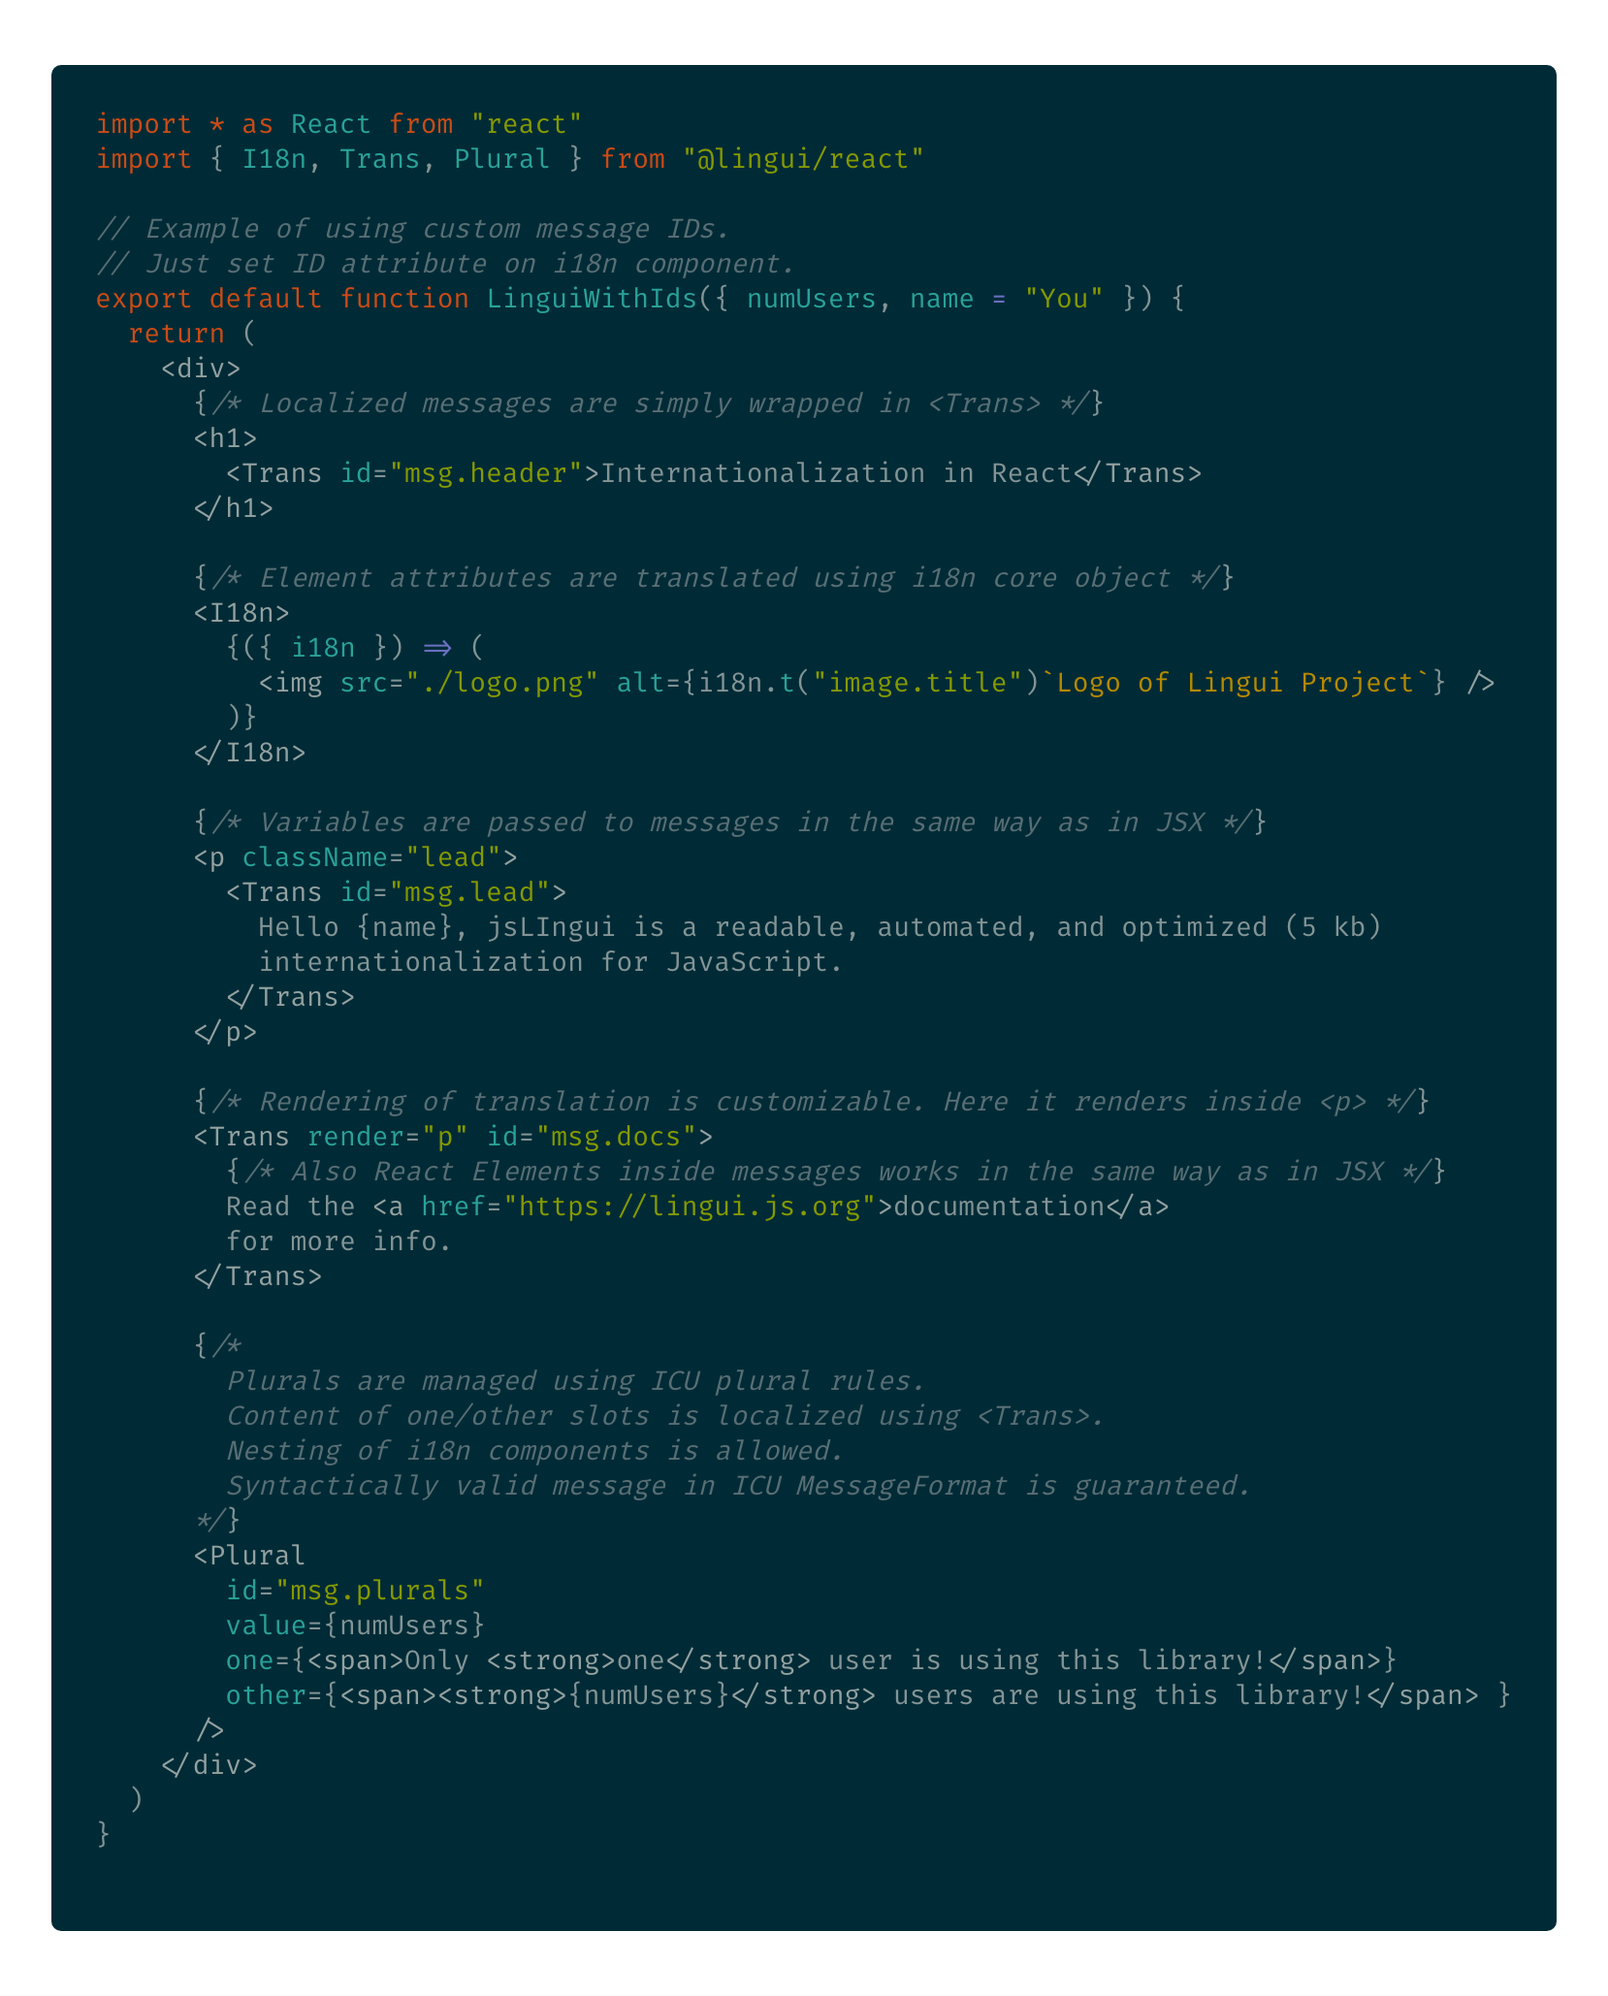
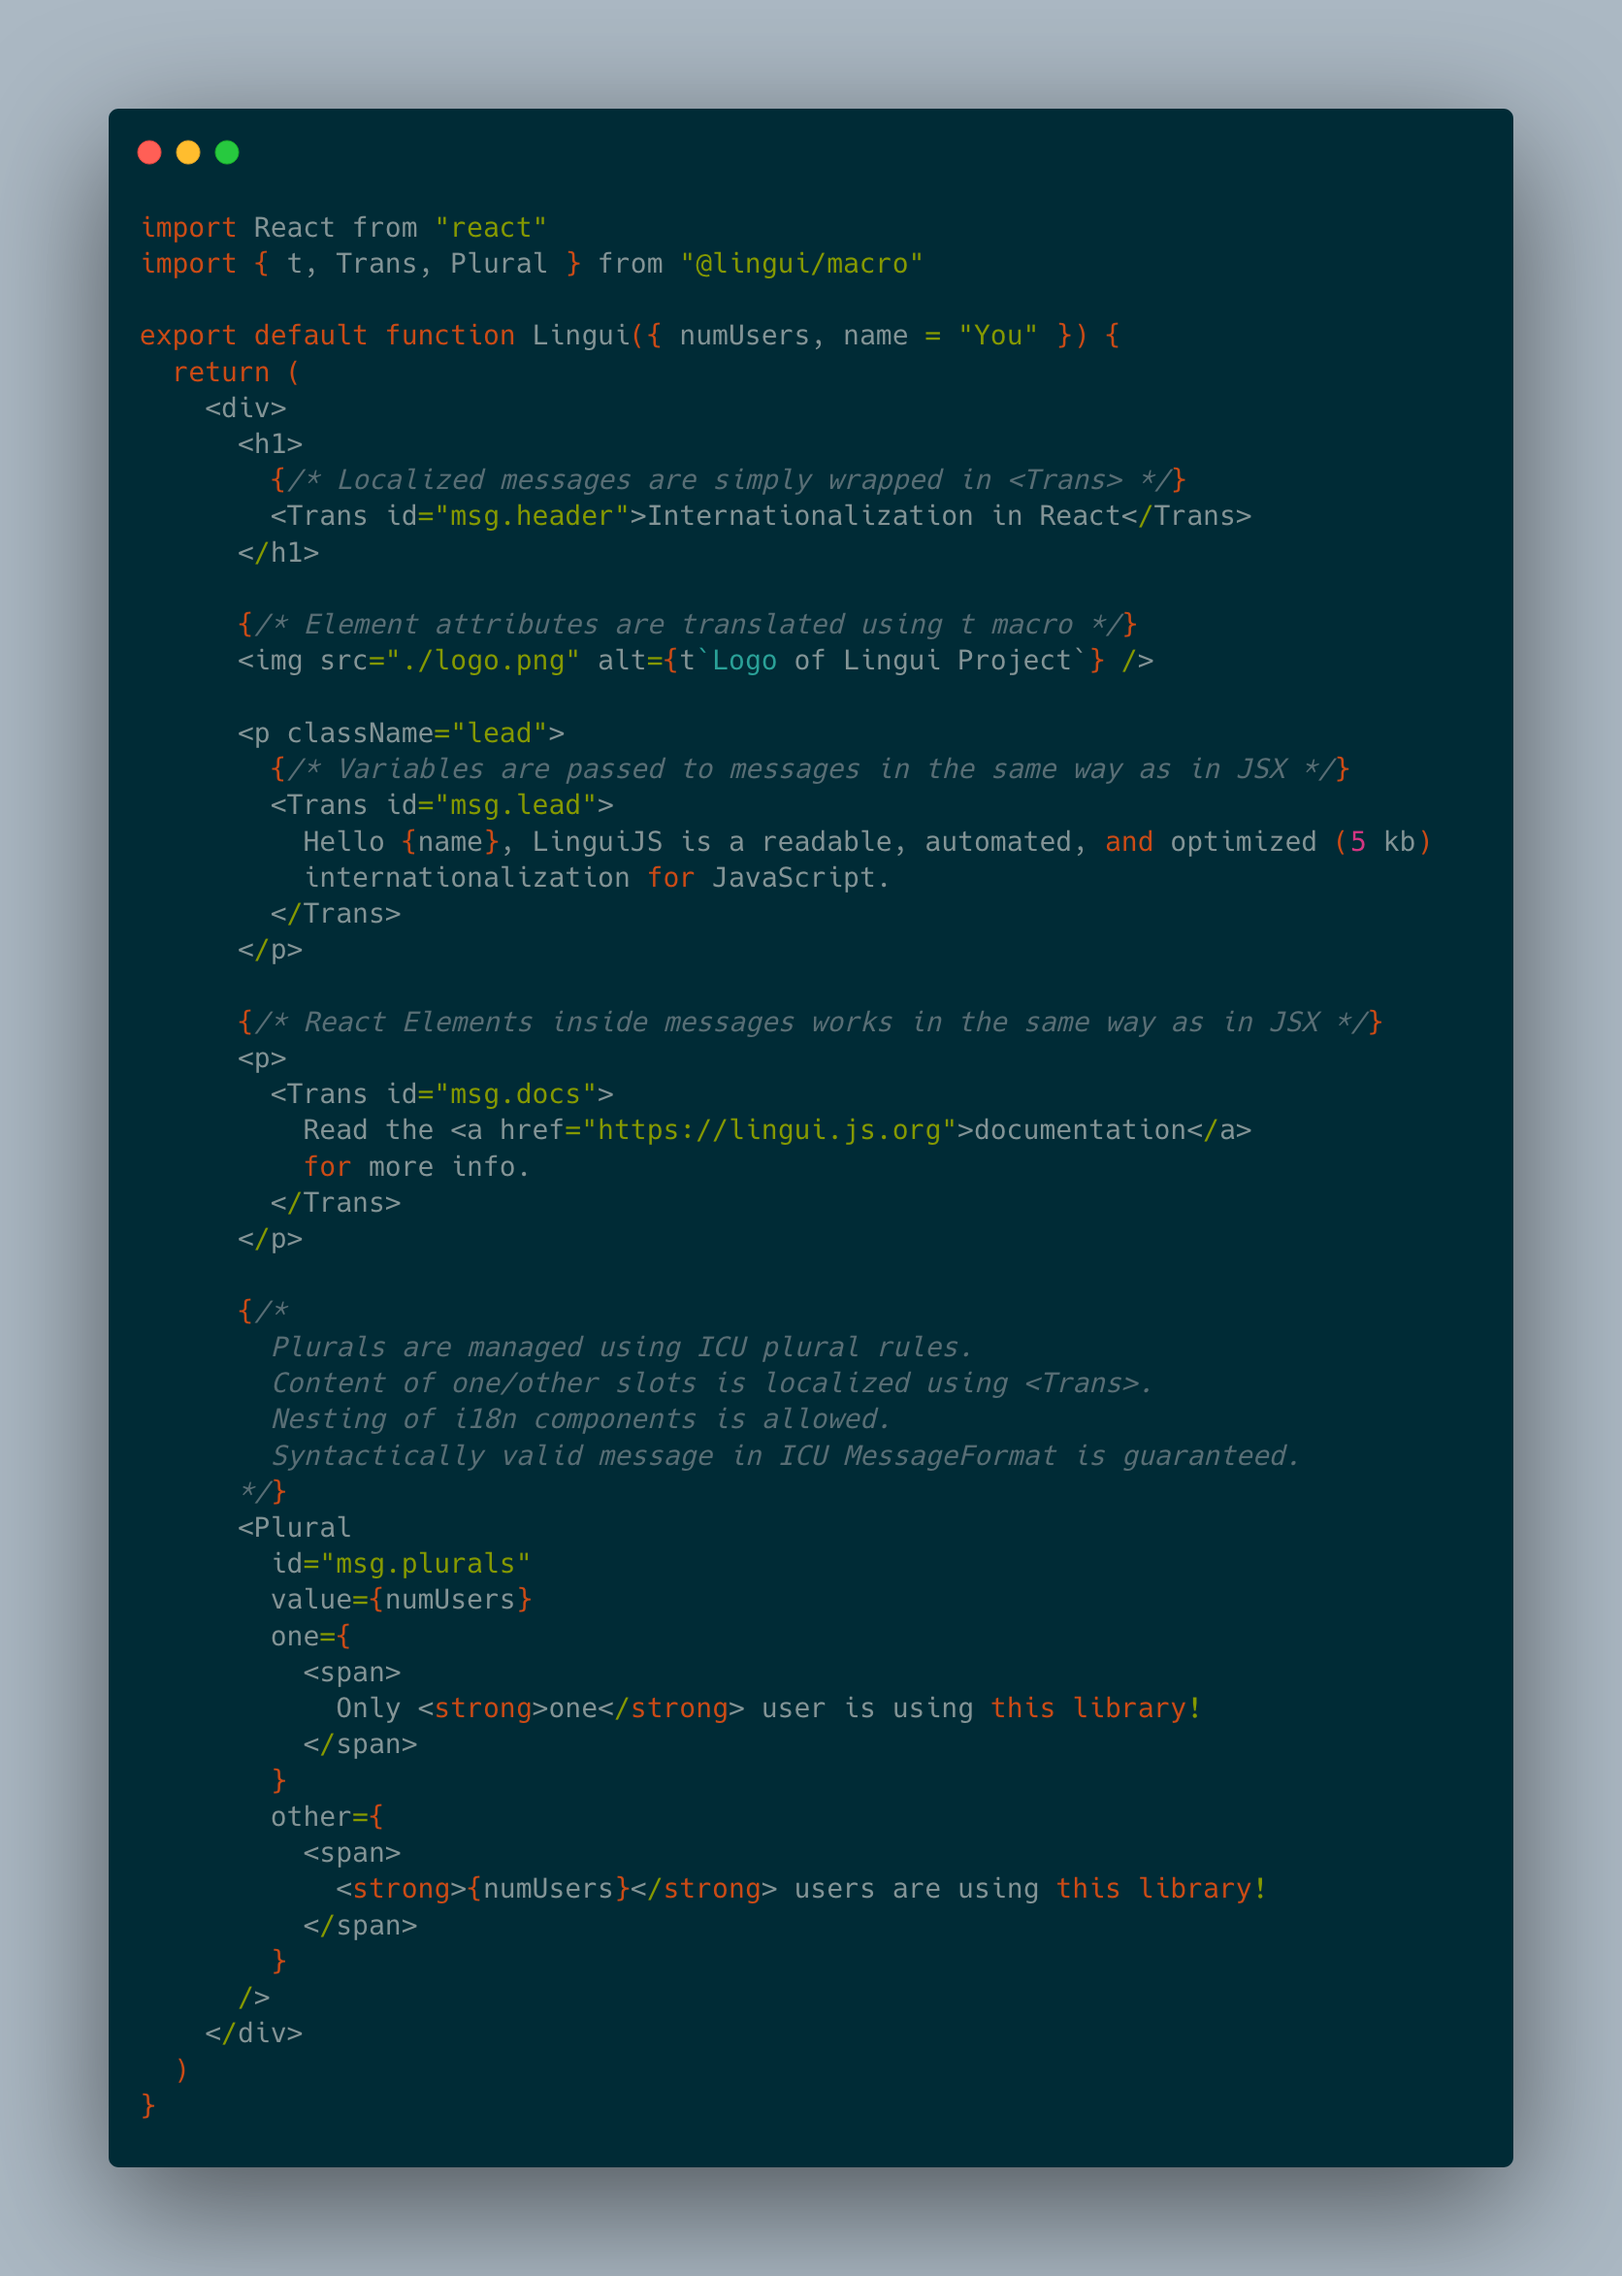
docs: update pitch examples

diff --git a/docs/_static/pitch_keys.js b/docs/_static/pitch_keys.js
@@ -1,5 +1,4 @@
-import * as React from "react"
-import { I18n } from "@lingui/react"
+import React from "react"
 import { t, Trans, Plural } from "@lingui/macro"
 
 export default function Lingui({ numUsers, name = "You" }) {
@@ -10,15 +9,8 @@ export default function Lingui({ numUsers, name = "You" }) {
         <Trans id="msg.header">Internationalization in React</Trans>
       </h1>
 
-      {/* Element attributes are translated using i18n core object */}
-      <I18n>
-        {({ i18n }) => (
-          <img
-            src="./logo.png"
-            alt={i18n._(t("image.title")`Logo of Lingui Project`)}
-          />
-        )}
-      </I18n>
+      {/* Element attributes are translated using t macro */}
+      <img src="./logo.png" alt={t`Logo of Lingui Project`} />
 
       <p className="lead">
         {/* Variables are passed to messages in the same way as in JSX */}
@@ -28,12 +20,13 @@ export default function Lingui({ numUsers, name = "You" }) {
         </Trans>
       </p>
 
-      {/* Rendering of translation is customizable. Here it renders inside <p> */}
-      <Trans render="p" id="msg.docs">
-        {/* Also React Elements inside messages works in the same way as in JSX */}
-        Read the <a href="https://lingui.js.org">documentation</a>
-        for more info.
-      </Trans>
+      {/* React Elements inside messages works in the same way as in JSX */}
+      <p>
+        <Trans id="msg.docs">
+          Read the <a href="https://lingui.js.org">documentation</a>
+          for more info.
+        </Trans>
+      </p>
 
       {/*
         Plurals are managed using ICU plural rules.

diff --git a/docs/_static/pitch_messages.js b/docs/_static/pitch_messages.js
@@ -1,5 +1,5 @@
-import * as React from "react"
-import { I18n, Trans, Plural } from "@lingui/react"
+import React from "react"
+import { Trans, Plural } from "@lingui/macro"
 
 export default function Lingui({ numUsers, name = "You" }) {
   return (
@@ -9,12 +9,8 @@ export default function Lingui({ numUsers, name = "You" }) {
         <Trans>Internationalization in React</Trans>
       </h1>
 
-      {/* Element attributes are translated using i18n core object */}
-      <I18n>
-        {({ i18n }) => (
-          <img src="./logo.png" alt={i18n.t`Logo of Lingui Project`} />
-        )}
-      </I18n>
+      {/* Element attributes are translated using t macro */}
+      <img src="./logo.png" alt={t`Logo of Lingui Project`} />
 
       <p className="lead">
         {/* Variables are passed to messages in the same way as in JSX */}
@@ -24,12 +20,13 @@ export default function Lingui({ numUsers, name = "You" }) {
         </Trans>
       </p>
 
-      {/* Rendering of translation is customizable. Here it renders inside <p> */}
-      <Trans render="p">
+      <p>
         {/* Also React Elements inside messages works in the same way as in JSX */}
-        Read the <a href="https://lingui.js.org">documentation</a>
-        for more info.
-      </Trans>
+        <Trans>
+          Read the <a href="https://lingui.js.org">documentation</a>
+          for more info.
+        </Trans>
+      </p>
 
       {/*
         Plurals are managed using ICU plural rules.

diff --git a/docs/_static/pitch.js b/docs/_static/pitch.js
@@ -1,4 +1,4 @@
-import * as React from "react"
+import React from "react"
 
 export default function Lingui({ numUsers, name = "You" }) {
   return (
